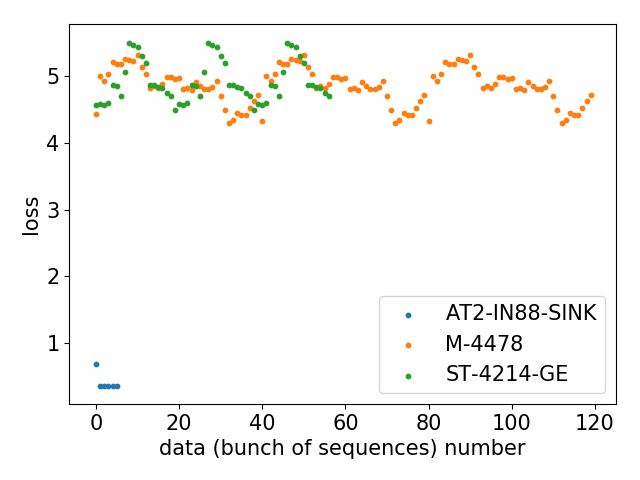
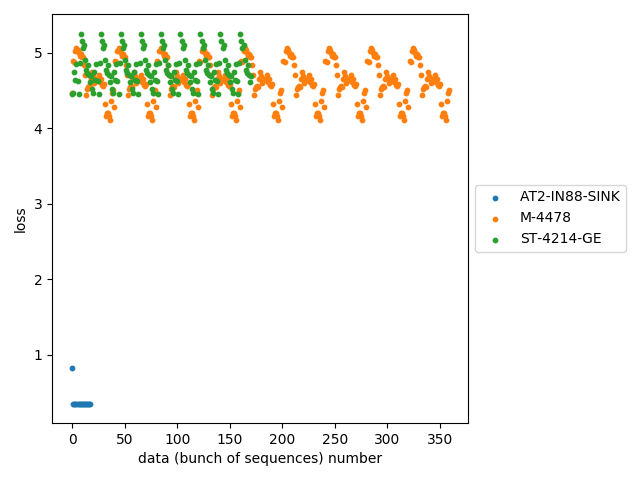
update - tensorflow 1.14

diff --git a/FARED_source/source/neuralnet.py b/FARED_source/source/neuralnet.py
@@ -3,11 +3,11 @@ os.environ['TF_CPP_MIN_LOG_LEVEL']='2'
 
 import tensorflow as tf
 
-class LSTM_Model(object):
+class LSTM_Model_TF1_04(object):
 
     def __init__(self, data_dim=None):
 
-        print("\n** Initialize the LSTM Model")
+        print("\n** Initialize the LSTM Model (with TensorFlow 1.04)")
 
         print(data_dim)
         self.inputs = tf.placeholder(tf.float32, [None, None, data_dim])
@@ -24,6 +24,48 @@ class LSTM_Model(object):
 
         self.vars_lstm = tf.get_collection(tf.GraphKeys.TRAINABLE_VARIABLES, scope='lstm')
         self.loss = tf.sqrt(tf.reduce_sum(tf.square(self.logits - self.outputs)))
+        self.train = tf.train.RMSPropOptimizer(learning_rate=0.005).minimize(loss=self.loss, var_list=self.vars_lstm)
+
+        w_cell_1, b_cell_1 = self.cell_1.variables
+        tf.summary.histogram("w_cell_1", w_cell_1)
+        tf.summary.histogram("b_cell_1", b_cell_1)
+        w_cell_2, b_cell_2 = self.cell_2.variables
+        tf.summary.histogram("w_cell_2", w_cell_2)
+        tf.summary.histogram("b_cell_2", b_cell_2)
+        w_cell_3, b_cell_3 = self.cell_3.variables
+        tf.summary.histogram("w_cell_3", w_cell_3)
+        tf.summary.histogram("b_cell_3", b_cell_3)
+
+        tf.summary.scalar('loss', self.loss)
+        self.summaries = tf.summary.merge_all()
+
+class LSTM_Model_TF1_14(object):
+
+    def __init__(self, data_dim=None):
+
+        print("\n** Initialize the LSTM Model (with TensorFlow 1.14)")
+
+        print(data_dim)
+        self.inputs = tf.placeholder(tf.float32, [None, None, data_dim], \
+            name="x")
+        self.outputs = tf.placeholder(tf.float32, [None, None, data_dim], \
+            name="y")
+
+        with tf.variable_scope('lstm'):
+            self.cell_1 = tf.compat.v1.nn.rnn_cell.LSTMCell(num_units=data_dim, \
+                initializer='glorot_normal', forget_bias=1.0, activation='tanh')
+            self.cell_2 = tf.compat.v1.nn.rnn_cell.LSTMCell(num_units=data_dim, \
+                initializer='glorot_normal', forget_bias=1.0, activation='tanh')
+            self.cell_3 = tf.compat.v1.nn.rnn_cell.LSTMCell(num_units=data_dim, \
+                initializer='glorot_normal', forget_bias=1.0, activation='tanh')
+            self.cell = tf.compat.v1.nn.rnn_cell.MultiRNNCell([self.cell_1, self.cell_2, self.cell_3])
+
+            self.logits, states = tf.compat.v1.nn.dynamic_rnn(cell=self.cell, inputs=self.inputs, dtype=tf.float32)
+
+
+        self.logits = tf.math.add(self.logits, 0, name="y_hat")
+        self.vars_lstm = tf.get_collection(tf.GraphKeys.TRAINABLE_VARIABLES, scope='lstm')
+        self.loss = tf.sqrt(tf.reduce_sum(tf.square(self.logits - self.outputs)), name="loss_sum")
         self.train = tf.train.RMSPropOptimizer(learning_rate=0.005).minimize(loss=self.loss, var_list=self.vars_lstm)
 
         w_cell_1, b_cell_1 = self.cell_1.variables

diff --git a/FARED_source/source/tf_process.py b/FARED_source/source/tf_process.py
@@ -48,11 +48,13 @@ def training(sess, neuralnet, saver,
 
         if(it % 100 == 10):
             Y_pred = sess.run(neuralnet.logits, feed_dict={neuralnet.inputs:D_tr, neuralnet.outputs:D_tr})
-            scipy.misc.imsave(os.path.join(PACK_PATH, 'results', str(it)+"_pred.png"), data2canvas(data=Y_pred, dy=sequence_length, dx=dataset.data_dim))
-            scipy.misc.imsave(os.path.join(PACK_PATH, 'results', str(it)+"_gt.png"), data2canvas(data=D_tr, dy=sequence_length, dx=dataset.data_dim))
+            plt.imsave(os.path.join(PACK_PATH, 'results', str(it)+"_pred.png"), data2canvas(data=Y_pred, dy=sequence_length, dx=dataset.data_dim))
+            plt.imsave(os.path.join(PACK_PATH, 'results', str(it)+"_gt.png"), data2canvas(data=D_tr, dy=sequence_length, dx=dataset.data_dim))
         print("Iteration [%d / %d] | Loss: %f" %(it, iteration, loss_tr))
 
         saver.save(sess, PACK_PATH+"/Checkpoint/model_checker")
+        tf.io.write_graph(sess.graph_def, PACK_PATH+"/Checkpoint", "model_checker.pb", as_text=False)
+        tf.io.write_graph(sess.graph_def, PACK_PATH+"/Checkpoint", "model_checker.pbtxt", as_text=True)
 
     print("Final iteration | Loss: %f" %(loss_tr))
 
@@ -63,7 +65,7 @@ def training(sess, neuralnet, saver,
     np.save("loss", list_loss)
 
     plt.clf()
-    plt.rcParams['font.size'] = 15
+    # plt.rcParams['font.size'] = 15
     plt.plot(list_loss, color='blue', linestyle="-", label="loss")
     plt.ylabel("loss")
     plt.xlabel("iteration")
@@ -81,7 +83,7 @@ def training(sess, neuralnet, saver,
             sparse_loss[i] = list_loss[i * unit]
 
         plt.clf()
-        plt.rcParams['font.size'] = 15
+        # plt.rcParams['font.size'] = 15
         plt.plot(sparse_loss_x, sparse_loss, color='blue', linestyle="-", label="loss")
         plt.ylabel("loss")
         plt.xlabel("iteration")
@@ -99,7 +101,7 @@ def validation(sess, neuralnet, saver,
 
     print("\n** Validation of the LSTM model with %d sets." %(dataset.am_tot))
     plt.clf()
-    plt.rcParams['font.size'] = 15
+    # plt.rcParams['font.size'] = 15
     for key in dataset.key_tot:
 
         list_dists = []
@@ -135,7 +137,7 @@ def validation(sess, neuralnet, saver,
 
     plt.xlabel("data (bunch of sequences) number")
     plt.ylabel("loss")
-    plt.legend(loc="best")
+    plt.legend(loc='center left', bbox_to_anchor=(1, 0.5))
     plt.tight_layout(pad=1, w_pad=1, h_pad=1)
     plt.savefig("compare_loss.png")
     plt.close()

diff --git a/FARED_source/run.py b/FARED_source/run.py
@@ -13,7 +13,7 @@ def main():
     training_keys.append(FLAGS.trkey)
 
     dataset = dman.DataSet(key_tr=training_keys, cycle=FLAGS.cycle)
-    lstm = nn.LSTM_Model(data_dim=dataset.data_dim)
+    lstm = nn.LSTM_Model_TF1_14(data_dim=dataset.data_dim)
 
     sess = tf.InteractiveSession()
     sess.run(tf.global_variables_initializer())
